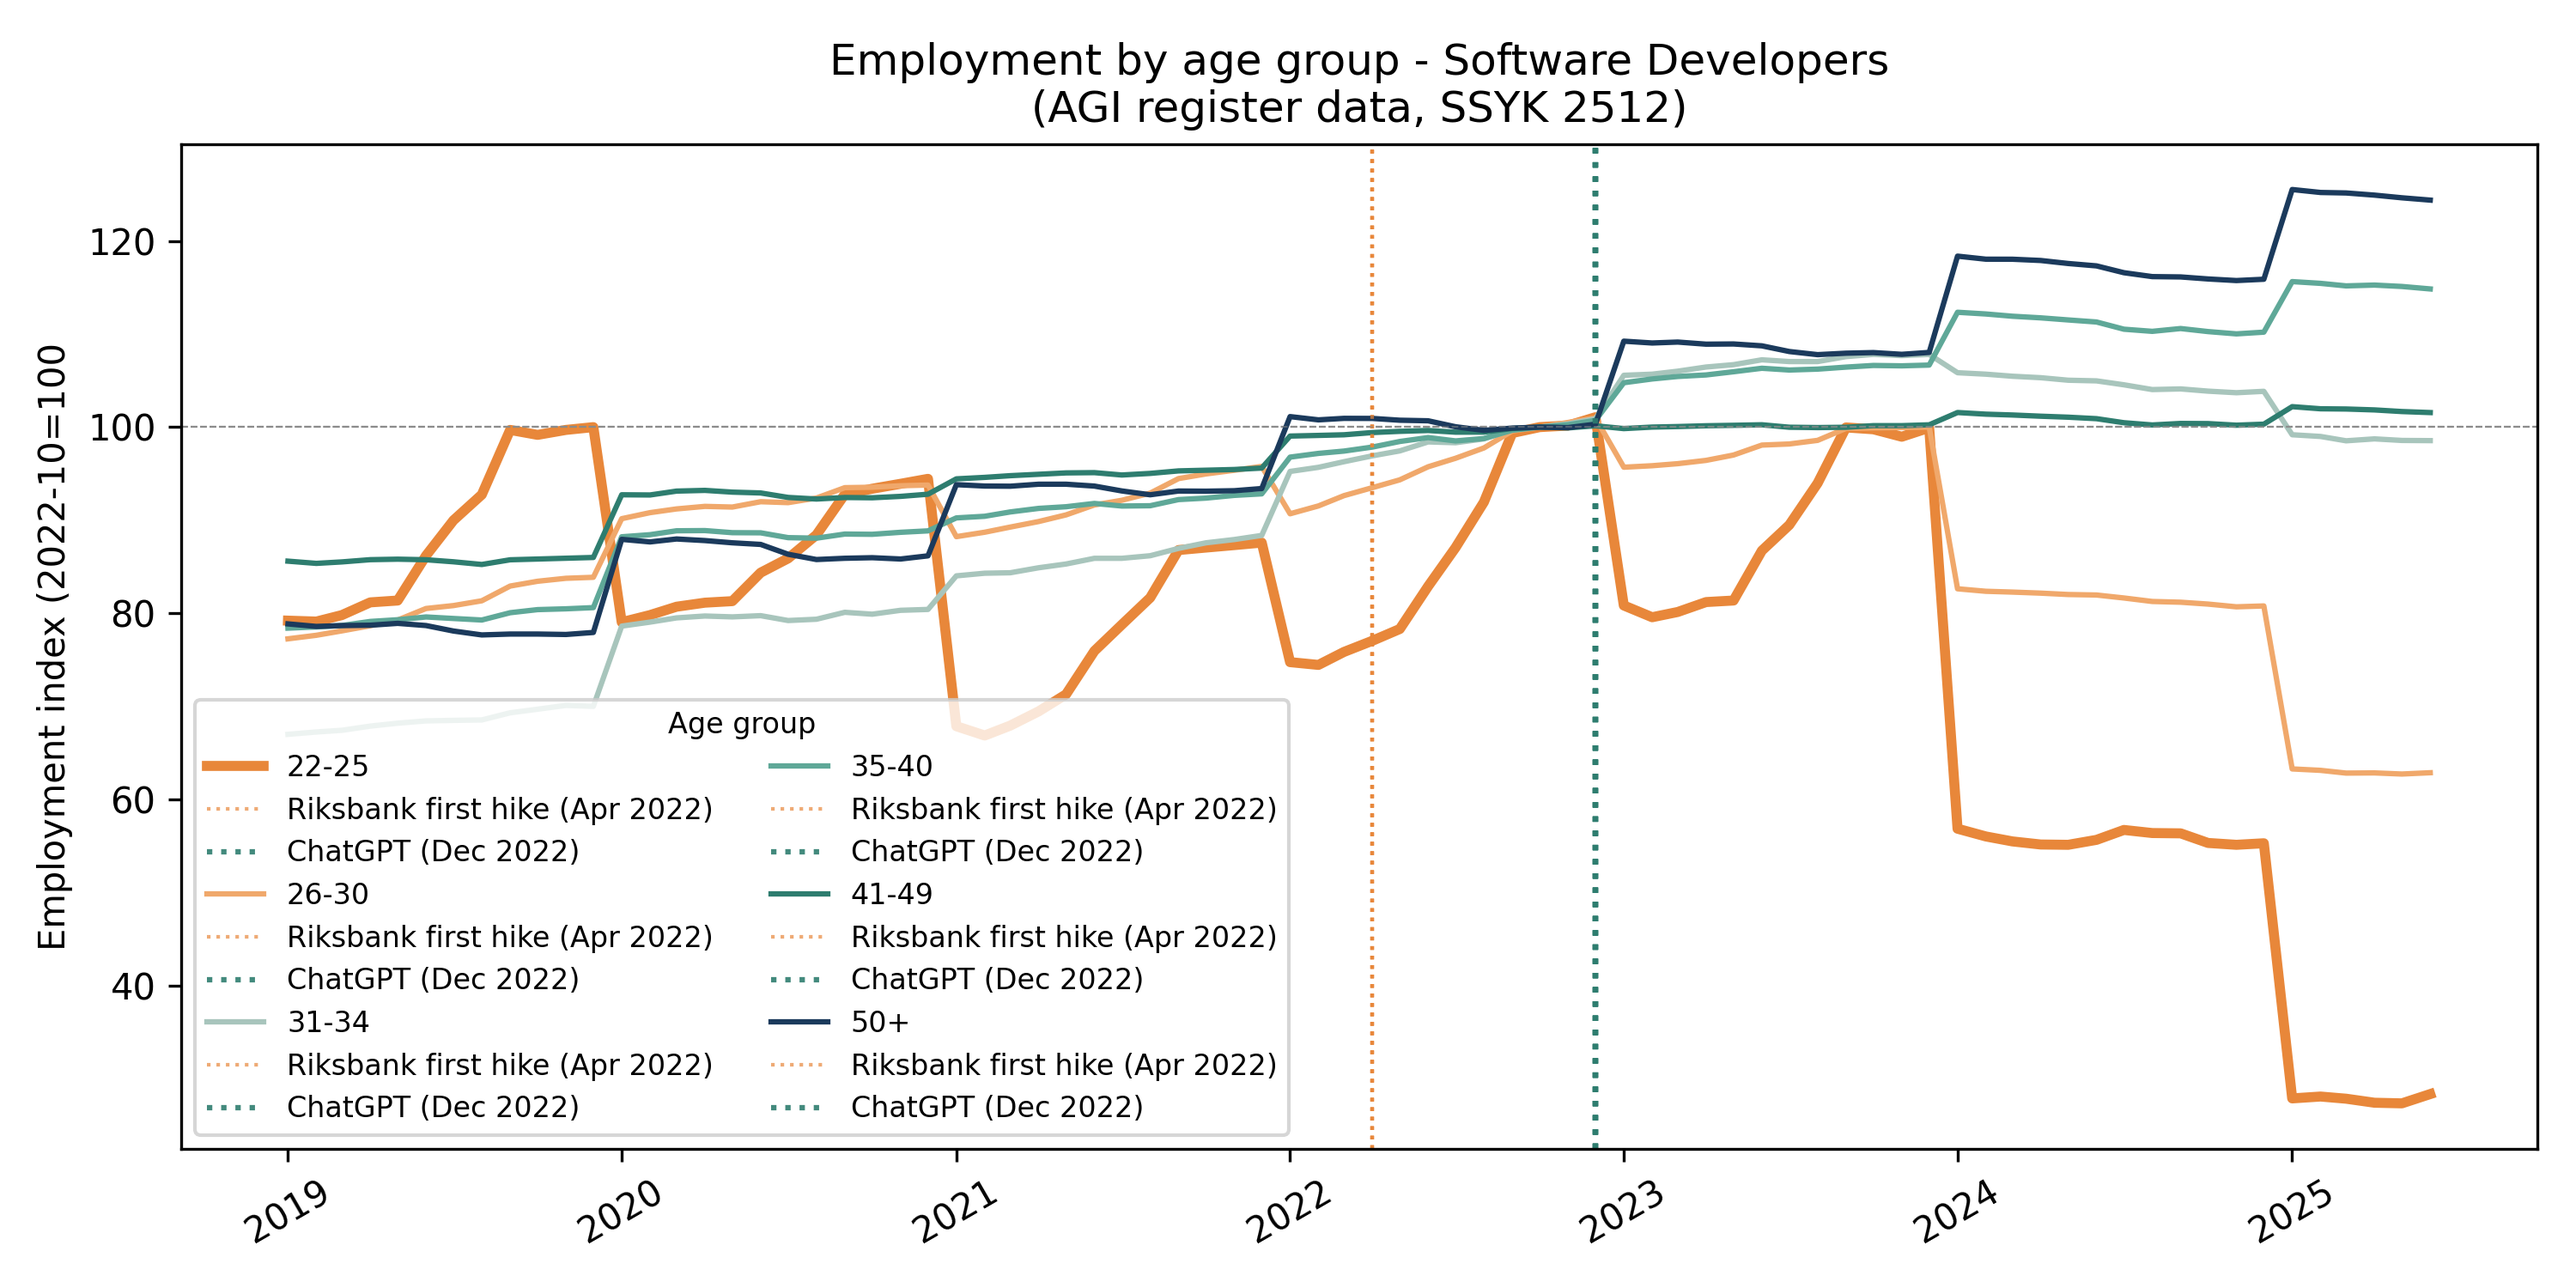
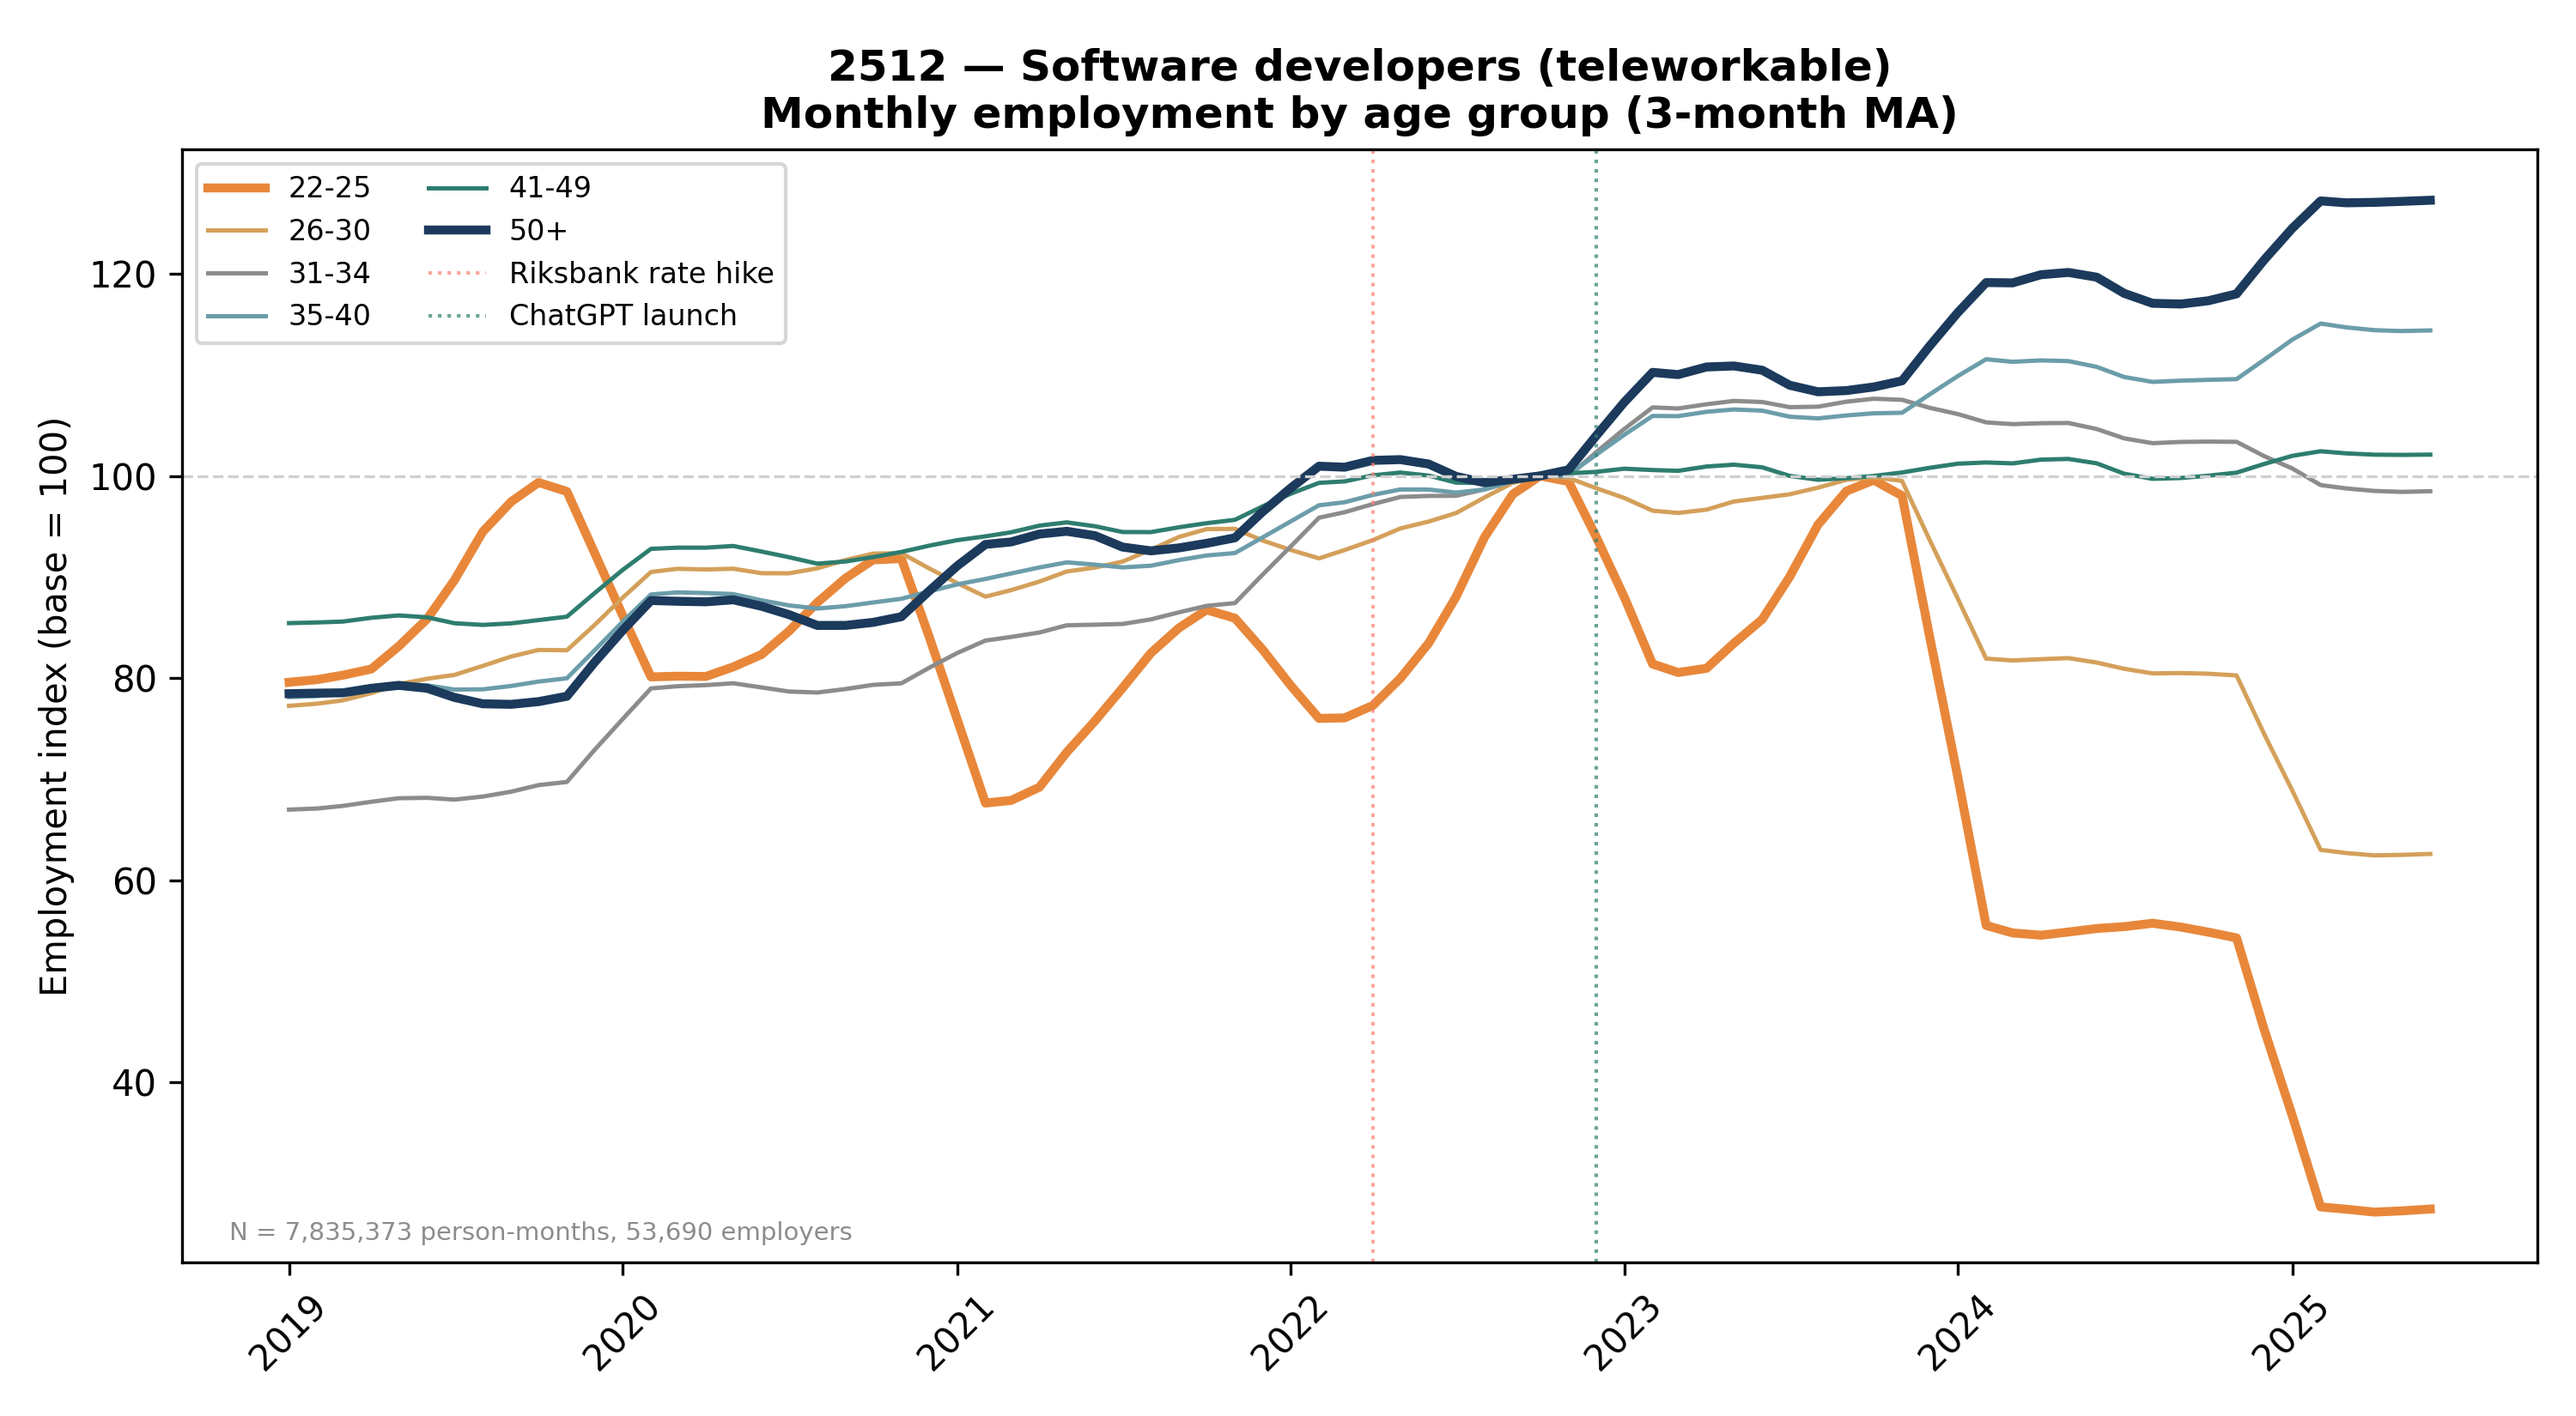
Employment summary stats table + verified gender composition in spotlight section
- Fill appendix Table A2 with MONA summary stats (510k employers, 75M cells,
  person-months by quartile and age group)
- Replace unverified gender claim with SCB Yrkesregistret 2024 data:
  411 (payroll admin) 82% female, 422 (customer svc/receptionists) 66% female,
  251 (software devs) 76% male
- Add augmentation-automation spectrum framing for spotlight occupations
- Replace spotlight figure placeholders with actual MONA output (4112, 4225)
- Update spotlight figures (2512, 4222) with balanced-panel versions

diff --git a/paper/appendix.tex b/paper/appendix.tex
@@ -92,24 +92,32 @@ DAIOE genAI pctl (mean) & 12.4 & 37.4 & 61.9 & 88.2 & 48.4 \\
 
 \begin{table}[htbp]
 \centering
-\caption{Summary statistics: employer-level employment sample (employer$\times$quartile$\times$month panel).}
+\caption{Summary statistics: employer-level employment sample (employer$\times$quartile$\times$month panel, 2019:01--2025:06).}
 \label{tab:sumstats_employment}
 \footnotesize
-\begin{tabular}{@{}lrrrrr@{}}
+\begin{tabular}{@{}lr@{}}
 \toprule
- & Q1 & Q2 & Q3 & Q4 & All \\
+ & Value \\
 \midrule
-Employers & \multicolumn{5}{c}{\emph{[To be completed from MONA]}} \\
-Emp$\times$quartile$\times$month obs & --- & --- & --- & --- & --- \\[4pt]
-Workers per cell, 22--25 (mean) & --- & --- & --- & --- & --- \\
-Workers per cell, 26--30 (mean) & --- & --- & --- & --- & --- \\
-Workers per cell, 31--34 (mean) & --- & --- & --- & --- & --- \\
-Workers per cell, 35--40 (mean) & --- & --- & --- & --- & --- \\
-Workers per cell, 41--49 (mean) & --- & --- & --- & --- & --- \\
-Workers per cell, 50+ (mean)    & --- & --- & --- & --- & --- \\[4pt]
-Share zero-employment cells (\%) & --- & --- & --- & --- & --- \\
+Employers & 510,213 \\
+Months & 78 \\
+Non-zero panel cells & 75,180,417 \\
+Min employer size & 5 \\[4pt]
+\multicolumn{2}{@{}l}{\emph{Non-zero cells by age group}} \\
+\quad 22--25 & 6,390,184 \\
+\quad 26--30 & 9,540,844 \\
+\quad 31--34 & 9,225,915 \\
+\quad 35--40 & 11,776,499 \\
+\quad 41--49 & 15,820,838 \\
+\quad 50+ & 22,426,137 \\[4pt]
+\multicolumn{2}{@{}l}{\emph{Person-months by quartile}} \\
+\quad Q1 (lowest exposure) & 79,444,673 \\
+\quad Q2 & 118,145,854 \\
+\quad Q3 & 73,105,626 \\
+\quad Q4 (highest exposure) & 107,021,074 \\
 \bottomrule
-\multicolumn{6}{l}{\scriptsize Q1 = lowest genAI exposure; Q4 = highest. Employers with $\geq$5 workers.}
+\multicolumn{2}{l}{\scriptsize Balanced panel with zero-filled cells. Employers with $\geq$5 workers.} \\
+\multicolumn{2}{l}{\scriptsize Restricted to employers observed in both Q4 and at least one of Q1--Q3.}
 \end{tabular}
 \end{table}
 
@@ -539,7 +547,11 @@ The composition channel is more consequential at older ages. For women aged 41--
 
 \citet{brynjolfsson2025canaries} highlight specific ``spotlight'' occupations (software developers and customer service agents) where AI adoption is particularly visible. A forecast report independently documents declining employment in administration and customer service in Sweden, noting that ``unemployment among white-collar workers has risen faster than among blue-collar workers'' \citep{unionen2025konjunktur}. Using monthly AGI (employer declaration) register data from SCB's secure environment (MONA), we plot employment trajectories by fine age band (22--25, 26--30, 31--34, 35--40, 41--49, 50+) for these occupations, indexed to October 2022 (just before ChatGPT).
 
-The economy-wide employment figure by age group and AI exposure appears as Figure~2 in the main paper. Below we show the occupation-specific spotlight analyses.
+The economy-wide employment figure by age group and AI exposure appears as Figure~2 in the main paper. Below we show occupation-specific spotlight analyses for four high-exposure occupations that span the augmentation--automation spectrum.
+
+Software developers (SSYK~2512) represent a setting where AI primarily augments experienced workers: senior developers leverage code-generation tools to become more productive, potentially reducing demand for junior coding tasks. Payroll administrators (SSYK~4112) and receptionists (SSYK~4225) represent occupations where routine entry-level tasks -- data entry, scheduling, basic enquiries -- are more directly automatable. Customer service agents (SSYK~4222) lie between these poles. That all four occupations display the same age gradient -- young workers declining, older workers stable or rising -- suggests that both augmentation and automation channels reduce demand for entry-level workers, albeit through different mechanisms: augmentation by raising the productivity of experienced workers, automation by eliminating codified tasks disproportionately performed by juniors.
+
+The augmentation--automation spectrum in these spotlight occupations connects to the gender gap documented in Section~\ref{sec:gender}. Three of the four occupations are female-dominated: payroll administrators (82\% female), customer service agents and receptionists (66\% female), while software developers are 76\% male (SCB Yrkesregistret 2024, 3-digit SSYK). The Oaxaca-Blinder decomposition shows that reweighting women to men's occupational distribution within Q4 narrows the gender gap by one-third, consistent with women's concentration in the administrative and service occupations where age-gradient effects are largest.
 
 % MOVED TO OFFLINE APPENDIX (OA6) — GenAI capability timeline (speculative causal narrative, conflicts with measured tone)
 % To restore, copy section from appendix_offline.tex OA6
@@ -560,17 +572,15 @@ The economy-wide employment figure by age group and AI exposure appears as Figur
 
 \begin{figure}[htbp]
 \centering
-%\includegraphics[width=\textwidth]{figA8c_mona_canaries_payrolladmin.png}  % PLACEHOLDER — awaiting MONA output from Lydia
-\fbox{\parbox{0.9\textwidth}{\centering\vspace{3cm}\textit{Figure placeholder — awaiting MONA output}\vspace{3cm}}}
-\caption{Monthly employment by age group: Payroll Administrators (SSYK~4112). AGI register data, indexed to base month = 100. Vertical lines mark the Riksbank's first rate hike (April 2022) and ChatGPT launch (November 2022). Payroll administrators rank at the 96th percentile of DAIOE genAI exposure.}
+\includegraphics[width=\textwidth]{figA8c_mona_canaries_payrolladmin.png}
+\caption{Monthly employment by age group: Payroll Administrators (SSYK~4112). AGI register data, indexed to base month = 100. Vertical lines mark the Riksbank's first rate hike (April 2022) and ChatGPT launch (November 2022). Payroll administrators rank at the 96th percentile of DAIOE genAI exposure. The 22--25 group drops to approximately 60\% of the base by early 2025.}
 \label{fig:spotlight_payroll}
 \end{figure}
 
 \begin{figure}[htbp]
 \centering
-%\includegraphics[width=\textwidth]{figA8d_mona_canaries_receptionists.png}  % PLACEHOLDER — awaiting MONA output from Lydia
-\fbox{\parbox{0.9\textwidth}{\centering\vspace{3cm}\textit{Figure placeholder — awaiting MONA output}\vspace{3cm}}}
-\caption{Monthly employment by age group: Receptionists (SSYK~4225). AGI register data, indexed to base month = 100. Vertical lines mark the Riksbank's first rate hike (April 2022) and ChatGPT launch (November 2022). Receptionists rank at the 76th percentile of DAIOE genAI exposure.}
+\includegraphics[width=\textwidth]{figA8d_mona_canaries_receptionists.png}
+\caption{Monthly employment by age group: Receptionists (SSYK~4225). AGI register data, indexed to base month = 100. Vertical lines mark the Riksbank's first rate hike (April 2022) and ChatGPT launch (November 2022). Receptionists rank at the 76th percentile of DAIOE genAI exposure. The pattern is noisier than for software developers or payroll administrators, likely reflecting smaller cell sizes.}
 \label{fig:spotlight_receptionists}
 \end{figure}
 
